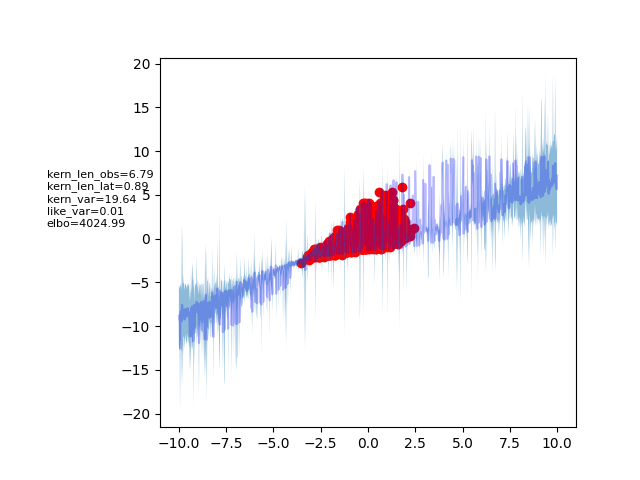
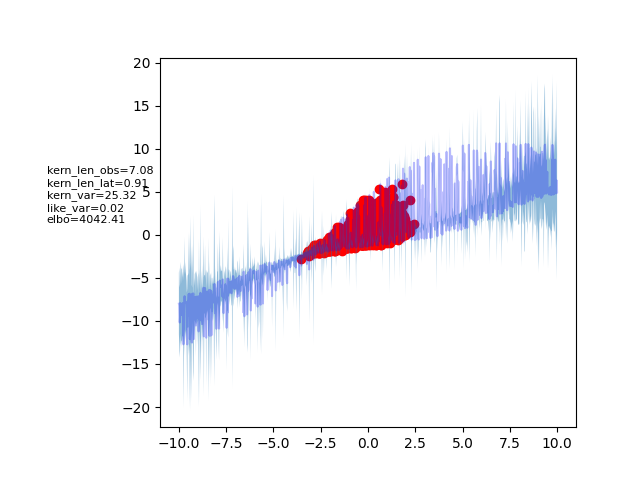
MoG data generation addded

diff --git a/data/generate_synthetic_data.py b/data/generate_synthetic_data.py
@@ -1,4 +1,22 @@
+from random import sample
 import numpy as np
+from sklearn.mixture import GaussianMixture
+
+
+def sample_mixture_of_gaussian(
+    num_dataset: int,
+    sample_size: int,
+):
+    num_components = 4
+    _weights = np.random.gamma(shape=1, scale=1, size=num_components)
+    data_gmm = GaussianMixture(n_components=num_components)
+    data_gmm.weights_ = _weights / _weights.sum()
+    data_gmm.means_ = np.random.random((num_components, 1)) * 10
+    data_gmm.covariances_ = [np.random.random((1, 1)) for _ in range(num_components)]
+    dataset = np.zeros((num_dataset, sample_size, 1))
+    for i in range(num_dataset):
+        dataset[i, :, :] = data_gmm.sample(sample_size)[0]
+    return dataset
 
 
 def normal_noise(
@@ -27,8 +45,9 @@ def additive_noise_a(
     sample_size: int,
     noise: str
 ):
-    cause = np.random.normal(
-        loc=0., scale=1., size=(num_dataset, sample_size, 1)
+    cause = sample_mixture_of_gaussian(
+        num_dataset=num_dataset,
+        sample_size=sample_size,
     )
     effect = cause ** 3 + cause + eval(f"{noise}_noise")(num_dataset, sample_size)
     return cause, effect
@@ -39,8 +58,9 @@ def additive_noise_b(
     sample_size: int,
     noise: str
 ):
-    cause = np.random.normal(
-        loc=0., scale=1., size=(num_dataset, sample_size, 1)
+    cause = sample_mixture_of_gaussian(
+        num_dataset=num_dataset,
+        sample_size=sample_size,
     )
     effect = np.log(cause + 10) + cause ** 6 + eval(f"{noise}_noise")(num_dataset, sample_size)
     return cause, effect
@@ -51,8 +71,9 @@ def additive_noise_c(
     sample_size: int,
     noise: str
 ):
-    cause = np.random.normal(
-        loc=0., scale=1., size=(num_dataset, sample_size, 1)
+    cause = sample_mixture_of_gaussian(
+        num_dataset=num_dataset,
+        sample_size=sample_size,
     )
     effect = np.sin(10 * cause) + np.exp(3 * cause) + eval(f"{noise}_noise")(num_dataset, sample_size)
     return cause, effect
@@ -63,8 +84,9 @@ def multiplicative_noise_a(
     sample_size: int,
     noise: str
 ):
-    cause = np.random.normal(
-        loc=0., scale=1., size=(num_dataset, sample_size, 1)
+    cause = sample_mixture_of_gaussian(
+        num_dataset=num_dataset,
+        sample_size=sample_size,
     )
     noise = eval(f"{noise}_noise")(num_dataset, sample_size)
     effect = (cause ** 3 + cause) * np.exp(noise)
@@ -76,8 +98,9 @@ def multiplicative_noise_b(
     sample_size: int,
     noise: str
 ):
-    cause = np.random.normal(
-        loc=0., scale=1., size=(num_dataset, sample_size, 1)
+    cause = sample_mixture_of_gaussian(
+        num_dataset=num_dataset,
+        sample_size=sample_size,
     )
     effect = (np.sin(10 * cause) + np.exp(3 * cause)) * np.exp(eval(f"{noise}_noise")(num_dataset, sample_size))
     return cause, effect
@@ -88,8 +111,9 @@ def multiplicative_noise_c(
     sample_size: int,
     noise: str
 ):
-    cause = np.random.normal(
-        loc=0., scale=1., size=(num_dataset, sample_size, 1)
+    cause = sample_mixture_of_gaussian(
+        num_dataset=num_dataset,
+        sample_size=sample_size,
     )
     effect = (np.log(10 + cause) + cause ** 6) * np.exp(eval(f"{noise}_noise")(num_dataset, sample_size))
     return cause, effect
@@ -100,8 +124,9 @@ def complex_noise_a(
     sample_size: int,
     noise: str
 ):
-    cause = np.random.normal(
-        loc=0., scale=1., size=(num_dataset, sample_size, 1)
+    cause = sample_mixture_of_gaussian(
+        num_dataset=num_dataset,
+        sample_size=sample_size,
     )
     effect = np.power(np.log(10 + cause) + cause ** 2, eval(f"{noise}_noise")(num_dataset, sample_size))
     return cause, effect
@@ -112,8 +137,9 @@ def complex_noise_b(
     sample_size: int,
     noise: str
 ):
-    cause = np.random.normal(
-        loc=0., scale=1., size=(num_dataset, sample_size, 1)
+    cause = sample_mixture_of_gaussian(
+        num_dataset=num_dataset,
+        sample_size=sample_size,
     )
     noise_term = np.abs(eval(f"{noise}_noise")(num_dataset, sample_size))
     effect = np.log(cause + 10) + np.power(cause ** 2, noise_term)
@@ -125,8 +151,9 @@ def complex_noise_c(
     sample_size: int,
     noise: str
 ):
-    cause = np.random.normal(
-        loc=0., scale=1., size=(num_dataset, sample_size, 1)
+    cause = sample_mixture_of_gaussian(
+        num_dataset=num_dataset,
+        sample_size=sample_size,
     )
     effect = np.log(cause ** 6 + 5) + cause ** 5 - np.sin((cause ** 2) * np.abs(eval(f"{noise}_noise")(num_dataset, sample_size)))
     return cause, effect
